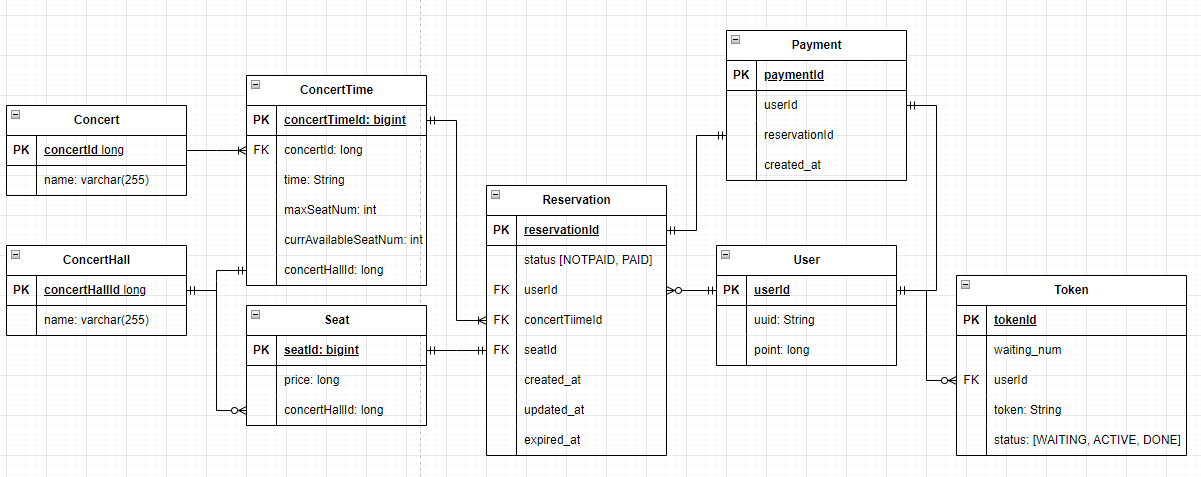
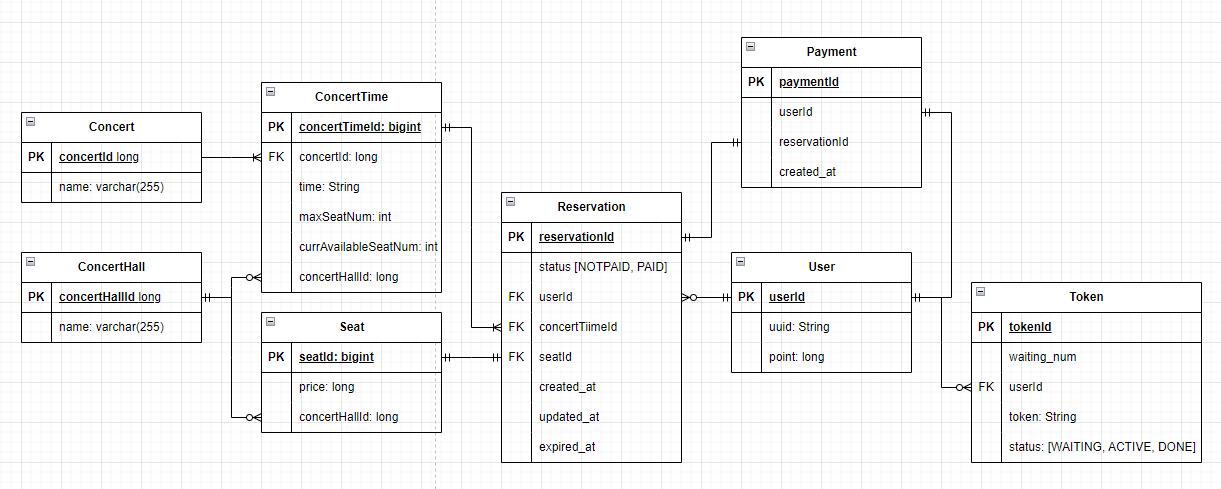
ERD 수정. concertTime:concertHall=ManyToOne

diff --git a/src/test/java/com/project1/ticketing/concert/ConcertServiceTest.java b/src/test/java/com/project1/ticketing/concert/ConcertServiceTest.java
@@ -103,15 +103,16 @@ public class ConcertServiceTest {
         );
 
         잠실_종합운동장 = ConcertHall.builder()
-                .concertHallId(0L)
+                .id(0L)
                 .name("잠실 종합운동장")
-                .seatList(List.of(
-                        new Seat(1L, 0L, 200000),
-                        new Seat(2L, 0L, 150000),
-                        new Seat(3L, 0L, 150000),
-                        new Seat(4L, 0L, 120000)
-                )).build();
+                .build();
 
+        seatList = List.of(
+                new Seat(1L, 0L, 200000),
+                new Seat(2L, 0L, 150000),
+                new Seat(3L, 0L, 150000),
+                new Seat(4L, 0L, 120000)
+        );
 
     }
 

diff --git a/src/main/java/com/project1/ticketing/domain/concert/models/ConcertTime.java b/src/main/java/com/project1/ticketing/domain/concert/models/ConcertTime.java
@@ -1,19 +1,29 @@
 package com.project1.ticketing.domain.concert.models;
 
+import jakarta.persistence.*;
 import lombok.Builder;
 import lombok.Getter;
 
 import java.time.ZonedDateTime;
 import java.time.format.DateTimeFormatter;
 
+@Entity
 @Builder
 @Getter
 public class ConcertTime{
 
+    @Id @GeneratedValue(strategy = GenerationType.IDENTITY)
     long id;
-    ZonedDateTime time;
-    long concertId;
-    long concertHallId;
+
+    private ZonedDateTime time;
+
+    @ManyToOne
+    @JoinColumn(name="concert_id")
+    private Concert concert;
+
+    @ManyToOne
+    @JoinColumn(name="concerthall_id")
+    ConcertHall concertHall;
     int maxSeatNum;
     int currAvailableSeatNum;
 

diff --git a/src/main/java/com/project1/ticketing/domain/concert/models/ConcertHall.java b/src/main/java/com/project1/ticketing/domain/concert/models/ConcertHall.java
@@ -17,9 +17,11 @@ public class ConcertHall {
     private Long id;
     private String name;
 
-    @OneToMany(mappedBy = "concert_hall")
+    @OneToMany(mappedBy = "concerthall")
     private List<Seat> seatList = new ArrayList<>();
 
+    @OneToMany(mappedBy = "concerthall")
+    private List<ConcertTime> concertTimeList = new ArrayList<>();
 
     @Builder
     public ConcertHall(Long id, String name) {

diff --git a/src/main/java/com/project1/ticketing/domain/concert/models/Concert.java b/src/main/java/com/project1/ticketing/domain/concert/models/Concert.java
@@ -17,6 +17,7 @@ public class Concert{
     @GeneratedValue(strategy = GenerationType.IDENTITY)
     private long id;
     private String name;
+
     @OneToMany(mappedBy = "concert")
     private List<ConcertTime> concertTimeList = new ArrayList<>();
 

diff --git a/src/main/java/com/project1/ticketing/domain/concert/models/Seat.java b/src/main/java/com/project1/ticketing/domain/concert/models/Seat.java
@@ -11,7 +11,7 @@ public class Seat{
         @GeneratedValue(strategy = GenerationType.IDENTITY)
         long id;
 
-        @ManyToOne()
+        @ManyToOne
         @JoinColumn(name = "concertime_id")
         private ConcertTime concertTime;
 
